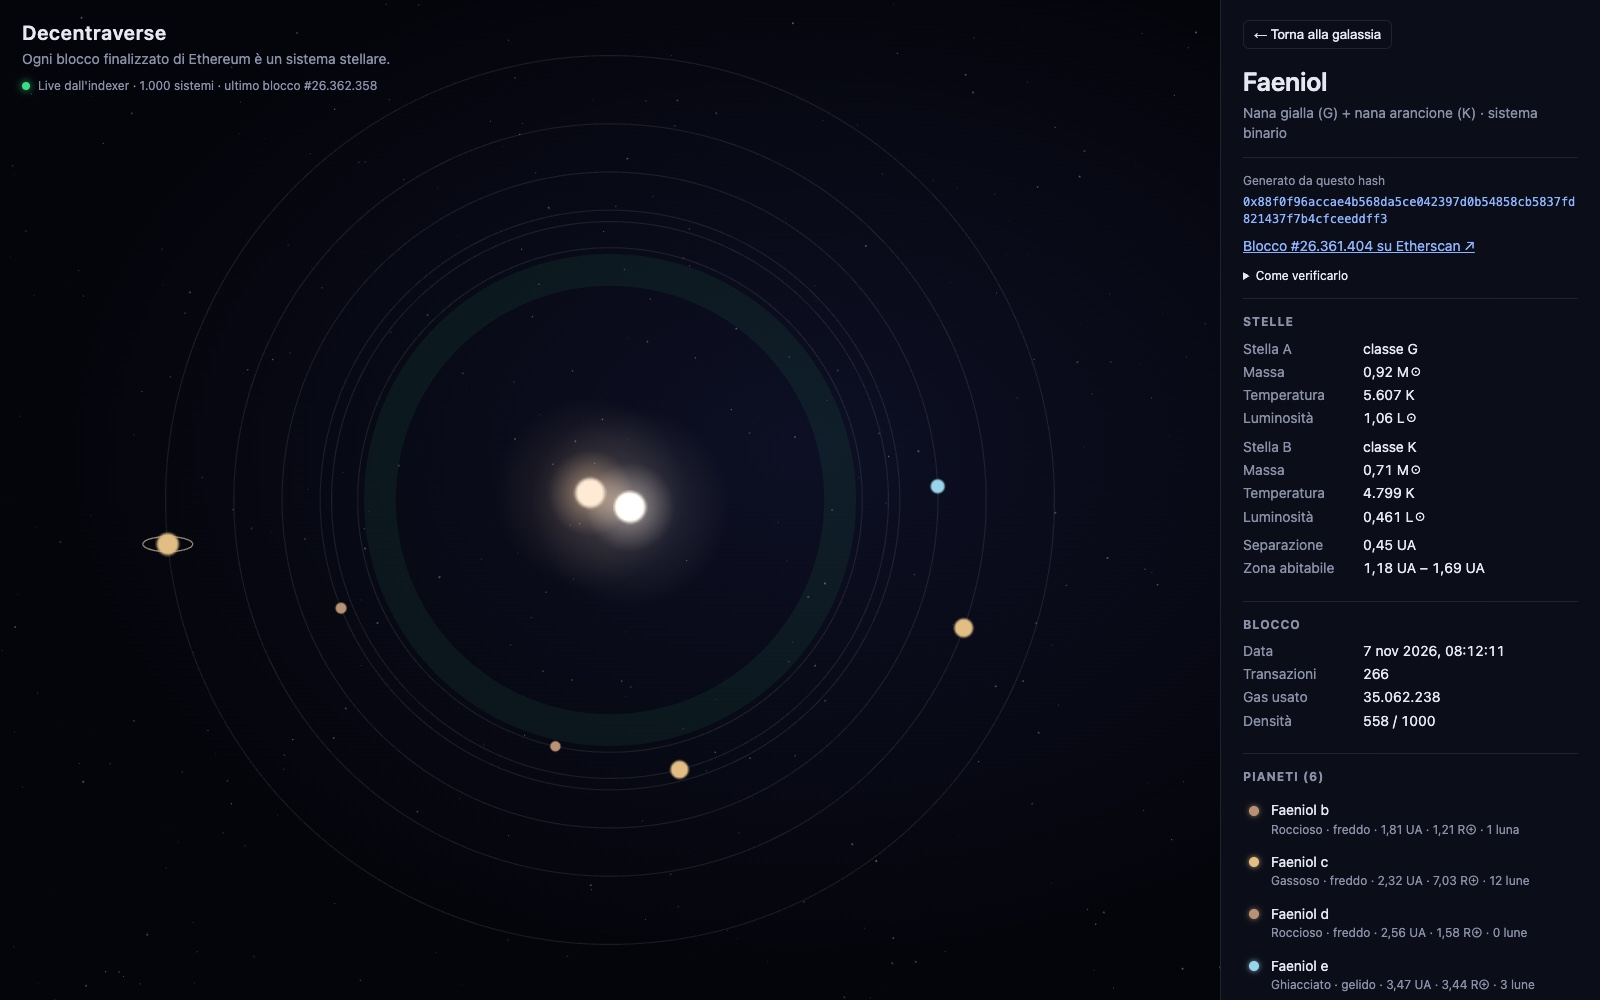
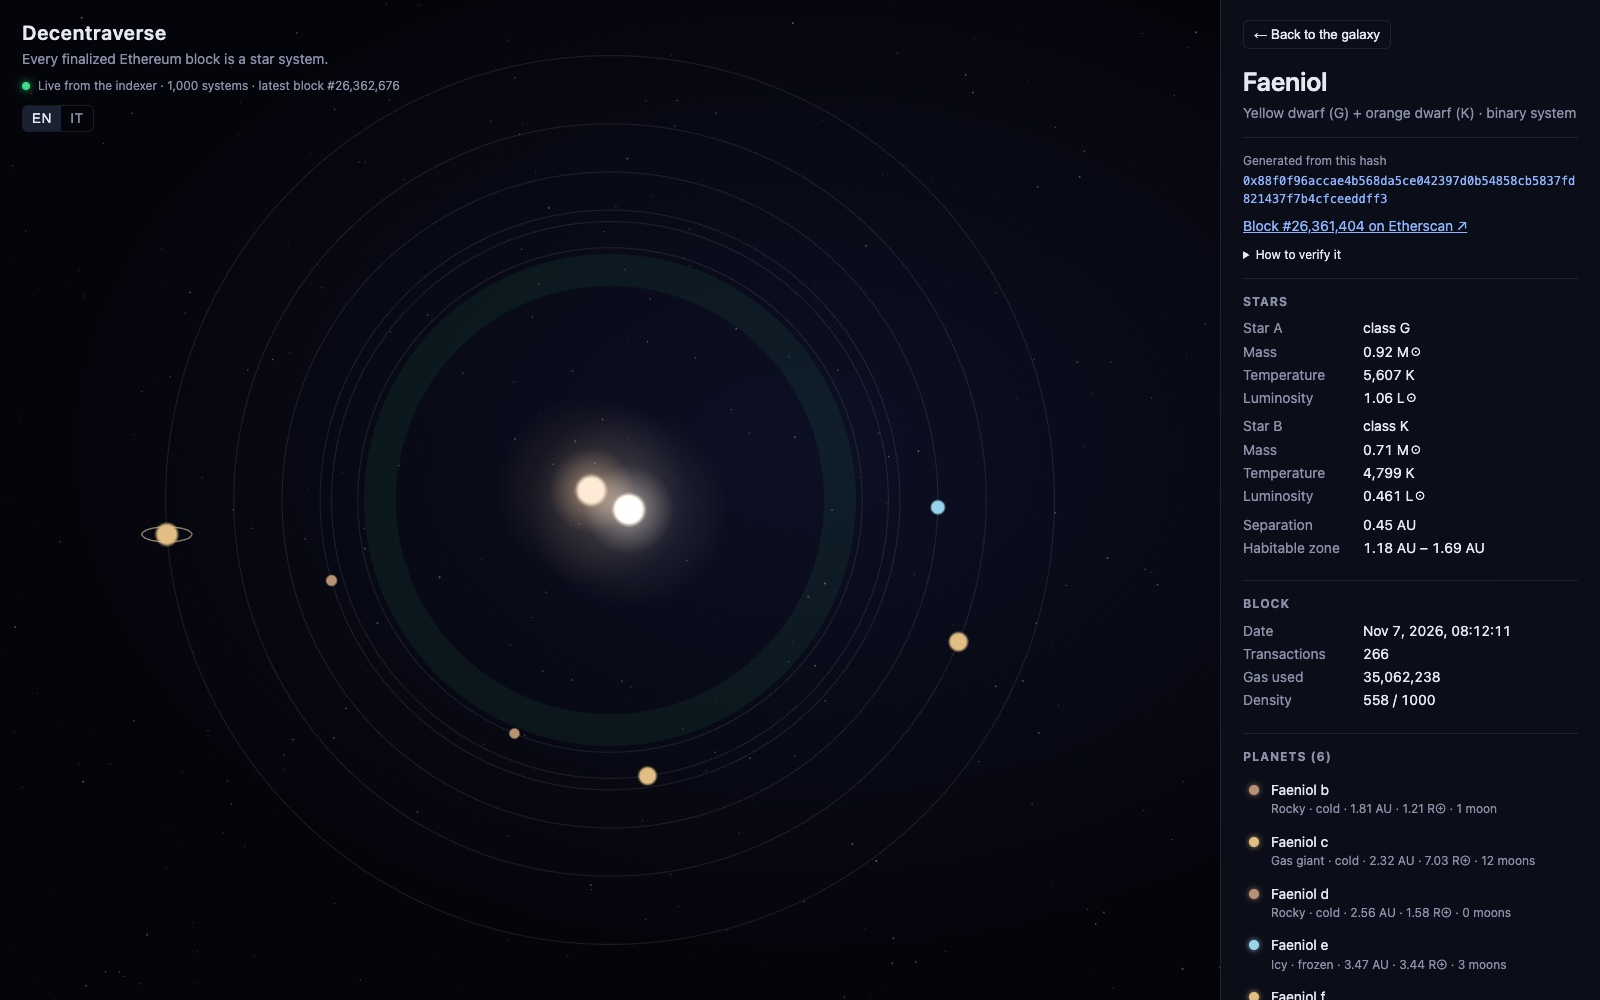
Add English and Italian localization to the web app
- Text catalog (Texts) for every user-facing string, with numbers and
  dates formatted for the chosen language
- EN | IT switch under the title; the default follows the browser,
  the choice is remembered, and ?lang=en|it forces it from a link
- Tooltip words passed to the renderer; html lang kept in sync
- Static page texts (error banner, meta description) in English
- README: section on languages, screenshots retaken in English

diff --git a/src/Decentraverse.Web/wwwroot/js/renderer.js b/src/Decentraverse.Web/wwwroot/js/renderer.js
@@ -130,6 +130,36 @@ export function showGalaxy(focusNumber) {
     }
 }
 
+const LANGUAGE_KEY = 'decentraverse.language';
+
+// Words for the tooltip; replaced by applyLanguage().
+let texts = { block: 'block', class: 'class', binary: 'binary', blackHole: 'black hole', locale: 'en-US' };
+
+/** A ?lang= in the URL, otherwise the viewer's saved choice, otherwise the browser's language. */
+export function preferredLanguage() {
+    const fromUrl = new URLSearchParams(location.search).get('lang');
+    if (fromUrl) return fromUrl;
+    try {
+        const saved = localStorage.getItem(LANGUAGE_KEY);
+        if (saved) return saved;
+    } catch {
+        // Storage can be unavailable (private mode, blocked site data): fall back to the browser.
+    }
+    return navigator.language || 'en';
+}
+
+export function applyLanguage(code, words, remember) {
+    texts = words;
+    document.documentElement.lang = code;
+    if (remember) {
+        try {
+            localStorage.setItem(LANGUAGE_KEY, code);
+        } catch {
+            // Not saved: the choice still applies to this visit.
+        }
+    }
+}
+
 export function dispose() {
     window.removeEventListener('resize', onResize);
     app?.destroy(true, { children: true, texture: true });
@@ -437,8 +467,9 @@ function updateHover(x, y) {
     if (mode === 'galaxy') {
         const star = pickStar(x, y);
         if (star) {
-            const kind = star.data.k === 1 ? 'buco nero' : star.data.k === 2 ? `classe ${star.data.cls} · binaria` : `classe ${star.data.cls}`;
-            showTooltip(x, y, `<b>${escapeHtml(star.data.name)}</b><br>blocco #${star.data.n.toLocaleString('it-IT')} · ${kind}`);
+            const cls = `${texts.class} ${star.data.cls}`;
+            const kind = star.data.k === 1 ? texts.blackHole : star.data.k === 2 ? `${cls} · ${texts.binary}` : cls;
+            showTooltip(x, y, `<b>${escapeHtml(star.data.name)}</b><br>${texts.block} #${star.data.n.toLocaleString(texts.locale)} · ${kind}`);
             app.canvas.style.cursor = 'pointer';
             return;
         }

diff --git a/src/Decentraverse.Web/wwwroot/index.html b/src/Decentraverse.Web/wwwroot/index.html
@@ -1,11 +1,11 @@
 <!DOCTYPE html>
-<html lang="it">
+<html lang="en">
 
 <head>
     <meta charset="utf-8" />
     <meta name="viewport" content="width=device-width, initial-scale=1.0" />
     <title>Decentraverse</title>
-    <meta name="description" content="Un universo procedurale: ogni blocco finalizzato di Ethereum genera un sistema stellare." />
+    <meta name="description" content="A procedural universe: every finalized Ethereum block generates a star system." />
     <base href="/" />
     <link rel="preload" id="webassembly" />
     <link rel="stylesheet" href="css/app.css" />
@@ -22,8 +22,8 @@
     </div>
 
     <div id="blazor-error-ui">
-        Si è verificato un errore inatteso.
-        <a href="." class="reload">Ricarica</a>
+        An unexpected error has occurred.
+        <a href="." class="reload">Reload</a>
         <span class="dismiss">🗙</span>
     </div>
     <script src="lib/pixi/pixi.min.js"></script>

diff --git a/src/Decentraverse.Web/wwwroot/css/app.css b/src/Decentraverse.Web/wwwroot/css/app.css
@@ -33,6 +33,10 @@ a { color: var(--accent); }
 .hud h1 { margin: 0; font-size: 20px; font-weight: 600; letter-spacing: 0.04em; }
 .hud .tagline { margin: 2px 0 8px; color: var(--muted); }
 .hud .status { margin: 0; display: flex; align-items: center; gap: 8px; color: var(--muted); font-size: 12px; }
+.lang { margin-top: 10px; display: inline-flex; border: 1px solid var(--line); border-radius: 6px; overflow: hidden; pointer-events: auto; }
+.lang button { background: none; border: 0; color: var(--muted); font: 600 11px/1 inherit; letter-spacing: 0.06em; padding: 5px 9px; cursor: pointer; }
+.lang button:hover { color: var(--text); }
+.lang button.active { background: rgba(143, 180, 255, 0.16); color: var(--text); }
 .dot { width: 8px; height: 8px; border-radius: 50%; background: var(--muted); display: inline-block; }
 .dot.live { background: var(--live); box-shadow: 0 0 8px var(--live); }
 .dot.offline { background: var(--offline); }

diff --git a/src/Decentraverse.Web/Services/Texts.cs b/src/Decentraverse.Web/Services/Texts.cs
@@ -1,0 +1,152 @@
+using System.Globalization;
+using Decentraverse.Generator;
+
+namespace Decentraverse.Web.Services;
+
+public enum Language { En, It }
+
+/// <summary>
+/// All user-facing text, in English and Italian, plus number and date formatting for the
+/// current language. A plain catalog: no resource files or extra packages needed for two languages.
+/// </summary>
+public sealed class Texts
+{
+    private static readonly CultureInfo English = CultureInfo.GetCultureInfo("en-US");
+    private static readonly CultureInfo Italian = CultureInfo.GetCultureInfo("it-IT");
+
+    public Language Language { get; private set; } = Language.En;
+
+    public CultureInfo Culture => Language == Language.It ? Italian : English;
+
+    /// <summary>Language code used for the html lang attribute and stored preferences.</summary>
+    public string Code => Language == Language.It ? "it" : "en";
+
+    public void Set(string? code) => Language = code is not null && code.StartsWith("it", StringComparison.OrdinalIgnoreCase)
+        ? Language.It
+        : Language.En;
+
+    private string T(string en, string it) => Language == Language.It ? it : en;
+
+    // Galaxy view ---------------------------------------------------------------------------
+
+    public string Tagline => T("Every finalized Ethereum block is a star system.", "Ogni blocco finalizzato di Ethereum è un sistema stellare.");
+    public string ContactingIndexer => T("Contacting the indexer…", "Contatto l'indexer…");
+    public string Generating(int count) => T($"Generating {Number(count)} systems…", $"Genero {Number(count)} sistemi…");
+    public string Live(int systems, long latest) => T(
+        $"Live from the indexer · {Number(systems)} systems · latest block #{Number(latest)}",
+        $"Live dall'indexer · {Number(systems)} sistemi · ultimo blocco #{Number(latest)}");
+    public string Offline(int blocks) => T(
+        $"Offline: indexer unreachable, showing {Number(blocks)} saved blocks",
+        $"Offline: indexer non raggiungibile, uso {Number(blocks)} blocchi salvati");
+    public string ClassName(string cls) => cls == "BH" ? T("Black holes", "Buchi neri") : T($"Class {cls}", $"Classe {cls}");
+    public string Hint => T(
+        "Drag to move · scroll to zoom · click a star to open its system",
+        "Trascina per spostarti · rotella per lo zoom · clic su una stella per aprire il suo sistema");
+    public string LanguageSwitch => T("Language", "Lingua");
+
+    /// <summary>Words used by the JavaScript tooltip.</summary>
+    public object RendererTexts => new
+    {
+        block = T("block", "blocco"),
+        @class = T("class", "classe"),
+        binary = T("binary", "binaria"),
+        blackHole = T("black hole", "buco nero"),
+        locale = Culture.Name,
+    };
+
+    // System panel ------------------------------------------------------------------------------
+
+    public string Back => T("← Back to the galaxy", "← Torna alla galassia");
+    public string BinarySystem => T("binary system", "sistema binario");
+    public string GeneratedFrom => T("Generated from this hash", "Generato da questo hash");
+    public string OnEtherscan(long block) => T($"Block #{Number(block)} on Etherscan ↗", $"Blocco #{Number(block)} su Etherscan ↗");
+    public string HowToVerify => T("How to verify it", "Come verificarlo");
+    public string VerifyIntro => T(
+        "Every part of the system comes from a SHA-256 seed. Anyone can recompute them, for example in a terminal:",
+        "Ogni parte del sistema nasce da un seme SHA-256. Chiunque può ricalcolarli, ad esempio da terminale:");
+    public string StarSeed => T("star seed", "seme stella");
+    public string RareSeed => T("rare-events seed", "seme eventi rari");
+    public string VerifyRareRule => T(
+        "It is a black hole if the rare-events seed starts with 0000 (1 in 65,536). Generator rules:",
+        "Buco nero se il seme degli eventi rari inizia con 0000 (1 su 65.536). Regole del generatore:");
+    public string BlackHoleNote => T(
+        "A black hole: it happens once every 65,536 blocks. The rare-events seed of this block starts with 0000.",
+        "Un buco nero: capita una volta ogni 65.536 blocchi. Il seme degli eventi rari di questo blocco inizia con 0000.");
+
+    public string StarHeading(bool binary) => binary ? T("Stars", "Stelle") : T("Star", "Stella");
+    public string StarDesignation(string designation) => T($"Star {designation}", $"Stella {designation}");
+    public string ClassLower(SpectralClass? cls) => T($"class {cls}", $"classe {cls}");
+    public string Mass => T("Mass", "Massa");
+    public string Temperature => T("Temperature", "Temperatura");
+    public string Luminosity => T("Luminosity", "Luminosità");
+    public string Separation => T("Separation", "Separazione");
+    public string HabitableZone => T("Habitable zone", "Zona abitabile");
+
+    public string BlockHeading => T("Block", "Blocco");
+    public string Date => T("Date", "Data");
+    public string Transactions => T("Transactions", "Transazioni");
+    public string GasUsed => T("Gas used", "Gas usato");
+    public string Density => T("Density", "Densità");
+
+    public string Planets(int count) => T($"Planets ({count})", $"Pianeti ({count})");
+    public string MoonCount(int count) => count == 1 ? T("1 moon", "1 luna") : T($"{count} moons", $"{count} lune");
+    public string NoMoons => T("No moons.", "Nessuna luna.");
+    public string NoPlanets => T("No planets in this system.", "Nessun pianeta in questo sistema.");
+    public string MoonDetails(Moon m) => T(
+        $"{MoonType(m.Type)} · radius {Number(m.RadiusKm)} km · orbit {Number(m.OrbitKm)} km",
+        $"{MoonType(m.Type)} · raggio {Number(m.RadiusKm)} km · orbita {Number(m.OrbitKm)} km");
+
+    // Generated data ----------------------------------------------------------------------------
+
+    public string StarDescription(Star star) => star.Kind == StarKind.BlackHole
+        ? T("Black hole", "Buco nero")
+        : star.Class switch
+        {
+            SpectralClass.O => T("Blue giant (O)", "Gigante blu (O)"),
+            SpectralClass.B => T("Blue-white star (B)", "Stella blu-bianca (B)"),
+            SpectralClass.A => T("White star (A)", "Stella bianca (A)"),
+            SpectralClass.F => T("Yellow-white star (F)", "Stella bianco-gialla (F)"),
+            SpectralClass.G => T("Yellow dwarf (G)", "Nana gialla (G)"),
+            SpectralClass.K => T("Orange dwarf (K)", "Nana arancione (K)"),
+            _ => T("Red dwarf (M)", "Nana rossa (M)"),
+        };
+
+    public string PlanetType(PlanetType t) => t switch
+    {
+        Generator.PlanetType.Rocky => T("Rocky", "Roccioso"),
+        Generator.PlanetType.Gas => T("Gas giant", "Gassoso"),
+        Generator.PlanetType.Ice => T("Icy", "Ghiacciato"),
+        _ => T("Lava", "Lavico"),
+    };
+
+    public string Zone(OrbitZone z) => z switch
+    {
+        OrbitZone.Scorched => T("scorching", "rovente"),
+        OrbitZone.Hot => T("hot", "caldo"),
+        OrbitZone.Habitable => T("habitable zone", "zona abitabile"),
+        OrbitZone.Cold => T("cold", "freddo"),
+        _ => T("frozen", "gelido"),
+    };
+
+    public string MoonType(MoonType t) => t switch
+    {
+        Generator.MoonType.Rocky => T("rocky", "rocciosa"),
+        Generator.MoonType.Icy => T("icy", "ghiacciata"),
+        _ => T("volcanic", "vulcanica"),
+    };
+
+    // Formatting ----------------------------------------------------------------------------------
+
+    public string Au(long microAu) =>
+        (microAu / 1_000_000.0).ToString(microAu < 100_000 ? "0.000" : "0.00", Culture) + T(" AU", " UA");
+
+    public string Solar(long micro) =>
+        (micro / 1_000_000.0).ToString(micro < 10_000 ? "0.0000" : micro < 1_000_000 ? "0.000" : "#,0.##", Culture);
+
+    public string Thousandths(int milli) => (milli / 1000.0).ToString("0.00", Culture);
+
+    public string Number(long n) => n.ToString("#,0", Culture);
+
+    public string DateTime(long unixSeconds) =>
+        DateTimeOffset.FromUnixTimeSeconds(unixSeconds).ToLocalTime().ToString(T("MMM d, yyyy, HH:mm:ss", "d MMM yyyy, HH:mm:ss"), Culture);
+}

diff --git a/src/Decentraverse.Web/Services/Labels.cs b/src/Decentraverse.Web/Services/Labels.cs
@@ -1,75 +1,24 @@
-using System.Globalization;
 using Decentraverse.Generator;
 
 namespace Decentraverse.Web.Services;
 
-/// <summary>User-facing texts (Italian) and colors for generated data.</summary>
+/// <summary>Language-independent labels and colors for generated data. User-facing text lives in <see cref="Texts"/>.</summary>
 public static class Labels
 {
-    private static readonly CultureInfo It = CultureInfo.GetCultureInfo("it-IT");
-
     public static string Class(Star star) => star.Kind == StarKind.BlackHole ? "BH" : star.Class!.Value.ToString();
-
-    public static string StarDescription(Star star) => star.Kind == StarKind.BlackHole
-        ? "Buco nero"
-        : star.Class switch
-        {
-            SpectralClass.O => "Gigante blu (O)",
-            SpectralClass.B => "Stella blu-bianca (B)",
-            SpectralClass.A => "Stella bianca (A)",
-            SpectralClass.F => "Stella bianco-gialla (F)",
-            SpectralClass.G => "Nana gialla (G)",
-            SpectralClass.K => "Nana arancione (K)",
-            _ => "Nana rossa (M)",
-        };
-
-    public static string PlanetType(PlanetType t) => t switch
-    {
-        Generator.PlanetType.Rocky => "Roccioso",
-        Generator.PlanetType.Gas => "Gassoso",
-        Generator.PlanetType.Ice => "Ghiacciato",
-        _ => "Lavico",
-    };
-
-    public static string Zone(OrbitZone z) => z switch
-    {
-        OrbitZone.Scorched => "rovente",
-        OrbitZone.Hot => "caldo",
-        OrbitZone.Habitable => "zona abitabile",
-        OrbitZone.Cold => "freddo",
-        _ => "gelido",
-    };
-
-    public static string MoonType(MoonType t) => t switch
-    {
-        Generator.MoonType.Rocky => "rocciosa",
-        Generator.MoonType.Icy => "ghiacciata",
-        _ => "vulcanica",
-    };
 
     public static uint PlanetColor(PlanetType t) => t switch
     {
-        Generator.PlanetType.Rocky => 0xB89272,
-        Generator.PlanetType.Gas => 0xE2BE84,
-        Generator.PlanetType.Ice => 0x9AD4EC,
+        PlanetType.Rocky => 0xB89272,
+        PlanetType.Gas => 0xE2BE84,
+        PlanetType.Ice => 0x9AD4EC,
         _ => 0xFF6A3A,
     };
 
     public static uint MoonColor(MoonType t) => t switch
     {
-        Generator.MoonType.Rocky => 0xA8A29A,
-        Generator.MoonType.Icy => 0xDDF1FA,
+        MoonType.Rocky => 0xA8A29A,
+        MoonType.Icy => 0xDDF1FA,
         _ => 0xF2A65A,
     };
-
-    public static string Au(long microAu) => (microAu / 1_000_000.0).ToString(microAu < 100_000 ? "0.000" : "0.00", It) + " UA";
-
-    public static string Solar(long micro) => (micro / 1_000_000.0).ToString(micro < 10_000 ? "0.0000" : micro < 1_000_000 ? "0.000" : "#,0.##", It);
-
-    public static string Thousandths(int milli) => (milli / 1000.0).ToString("0.00", It);
-
-    public static string Number(long n) => n.ToString("#,0", It);
-
-    public static string Date(long unixSeconds) =>
-        DateTimeOffset.FromUnixTimeSeconds(unixSeconds).ToLocalTime().ToString("d MMM yyyy, HH:mm:ss", It);
 }

diff --git a/src/Decentraverse.Web/Program.cs b/src/Decentraverse.Web/Program.cs
@@ -10,5 +10,6 @@ builder.RootComponents.Add<HeadOutlet>("head::after");
 // HttpClient for files served with the app itself (the offline fixture).
 builder.Services.AddScoped(_ => new HttpClient { BaseAddress = new Uri(builder.HostEnvironment.BaseAddress) });
 builder.Services.AddScoped<BlockSource>();
+builder.Services.AddScoped<Texts>();
 
 await builder.Build().RunAsync();

diff --git a/README.md b/README.md
@@ -98,6 +98,10 @@ About **one block in 32** produces a close binary. In *Faeniol* (block [#26,361,
 
 Every view has its own URL. Open the system above with `http://localhost:5080/#/block/26361404`, or open Kruxe with its giant already selected with `/#/block/26361449/planet/5`. Blocks that are not on the map are fetched from the indexer.
 
+### English and Italian
+
+The interface speaks **English and Italian**. It follows your browser's language, the **EN | IT** switch under the title changes it instantly (numbers and dates included: `1,000.5` or `1.000,5`), and your choice is remembered. A link can also force a language: `http://localhost:5080/?lang=it#/block/26361404`.
+
 ---
 
 ## How it works
@@ -219,7 +223,7 @@ Either way, the result is **Shagonelax**:
 
 The same answer is pinned in [`Golden/v1.json`](tests/Decentraverse.Generator.Tests/Golden/v1.json), so `dotnet test` catches any drift.
 
-In the app, the "Come verificarlo" (*how to verify it*) section of each system's panel shows the same command and seeds. The interface is in Italian; the code and docs are in English.
+In the app, the "How to verify it" section of each system's panel shows the same command and seeds.
 
 ---
 
